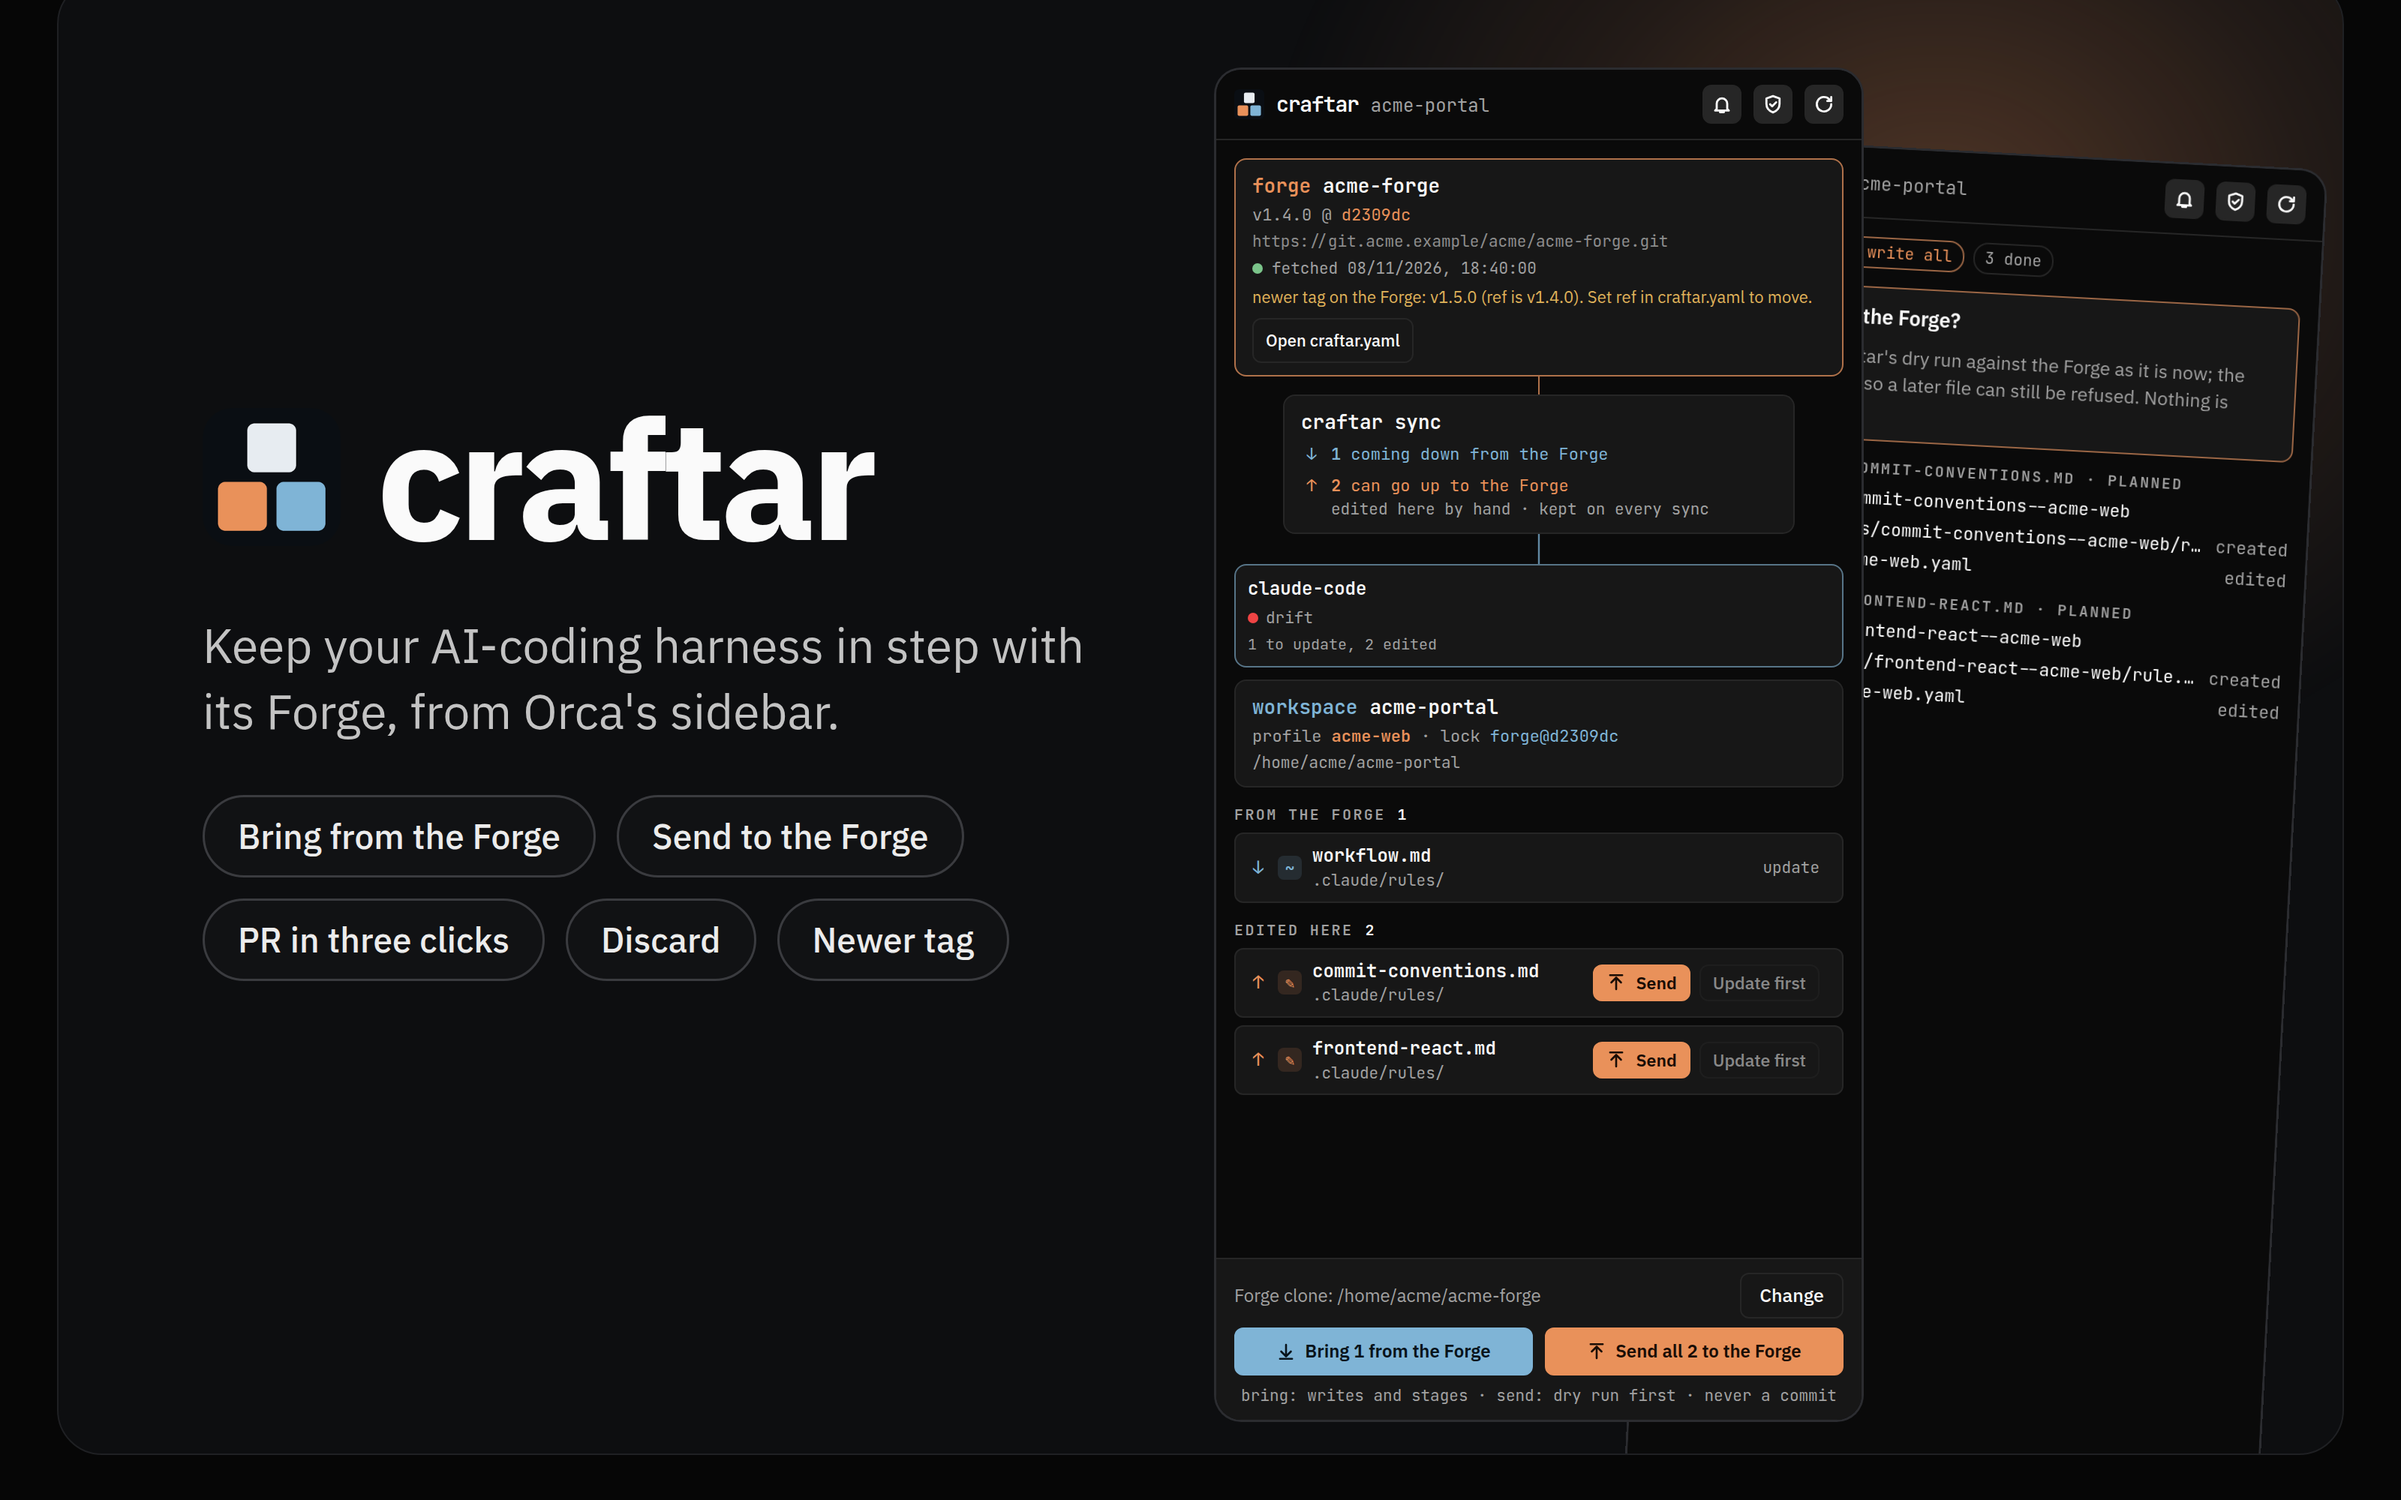
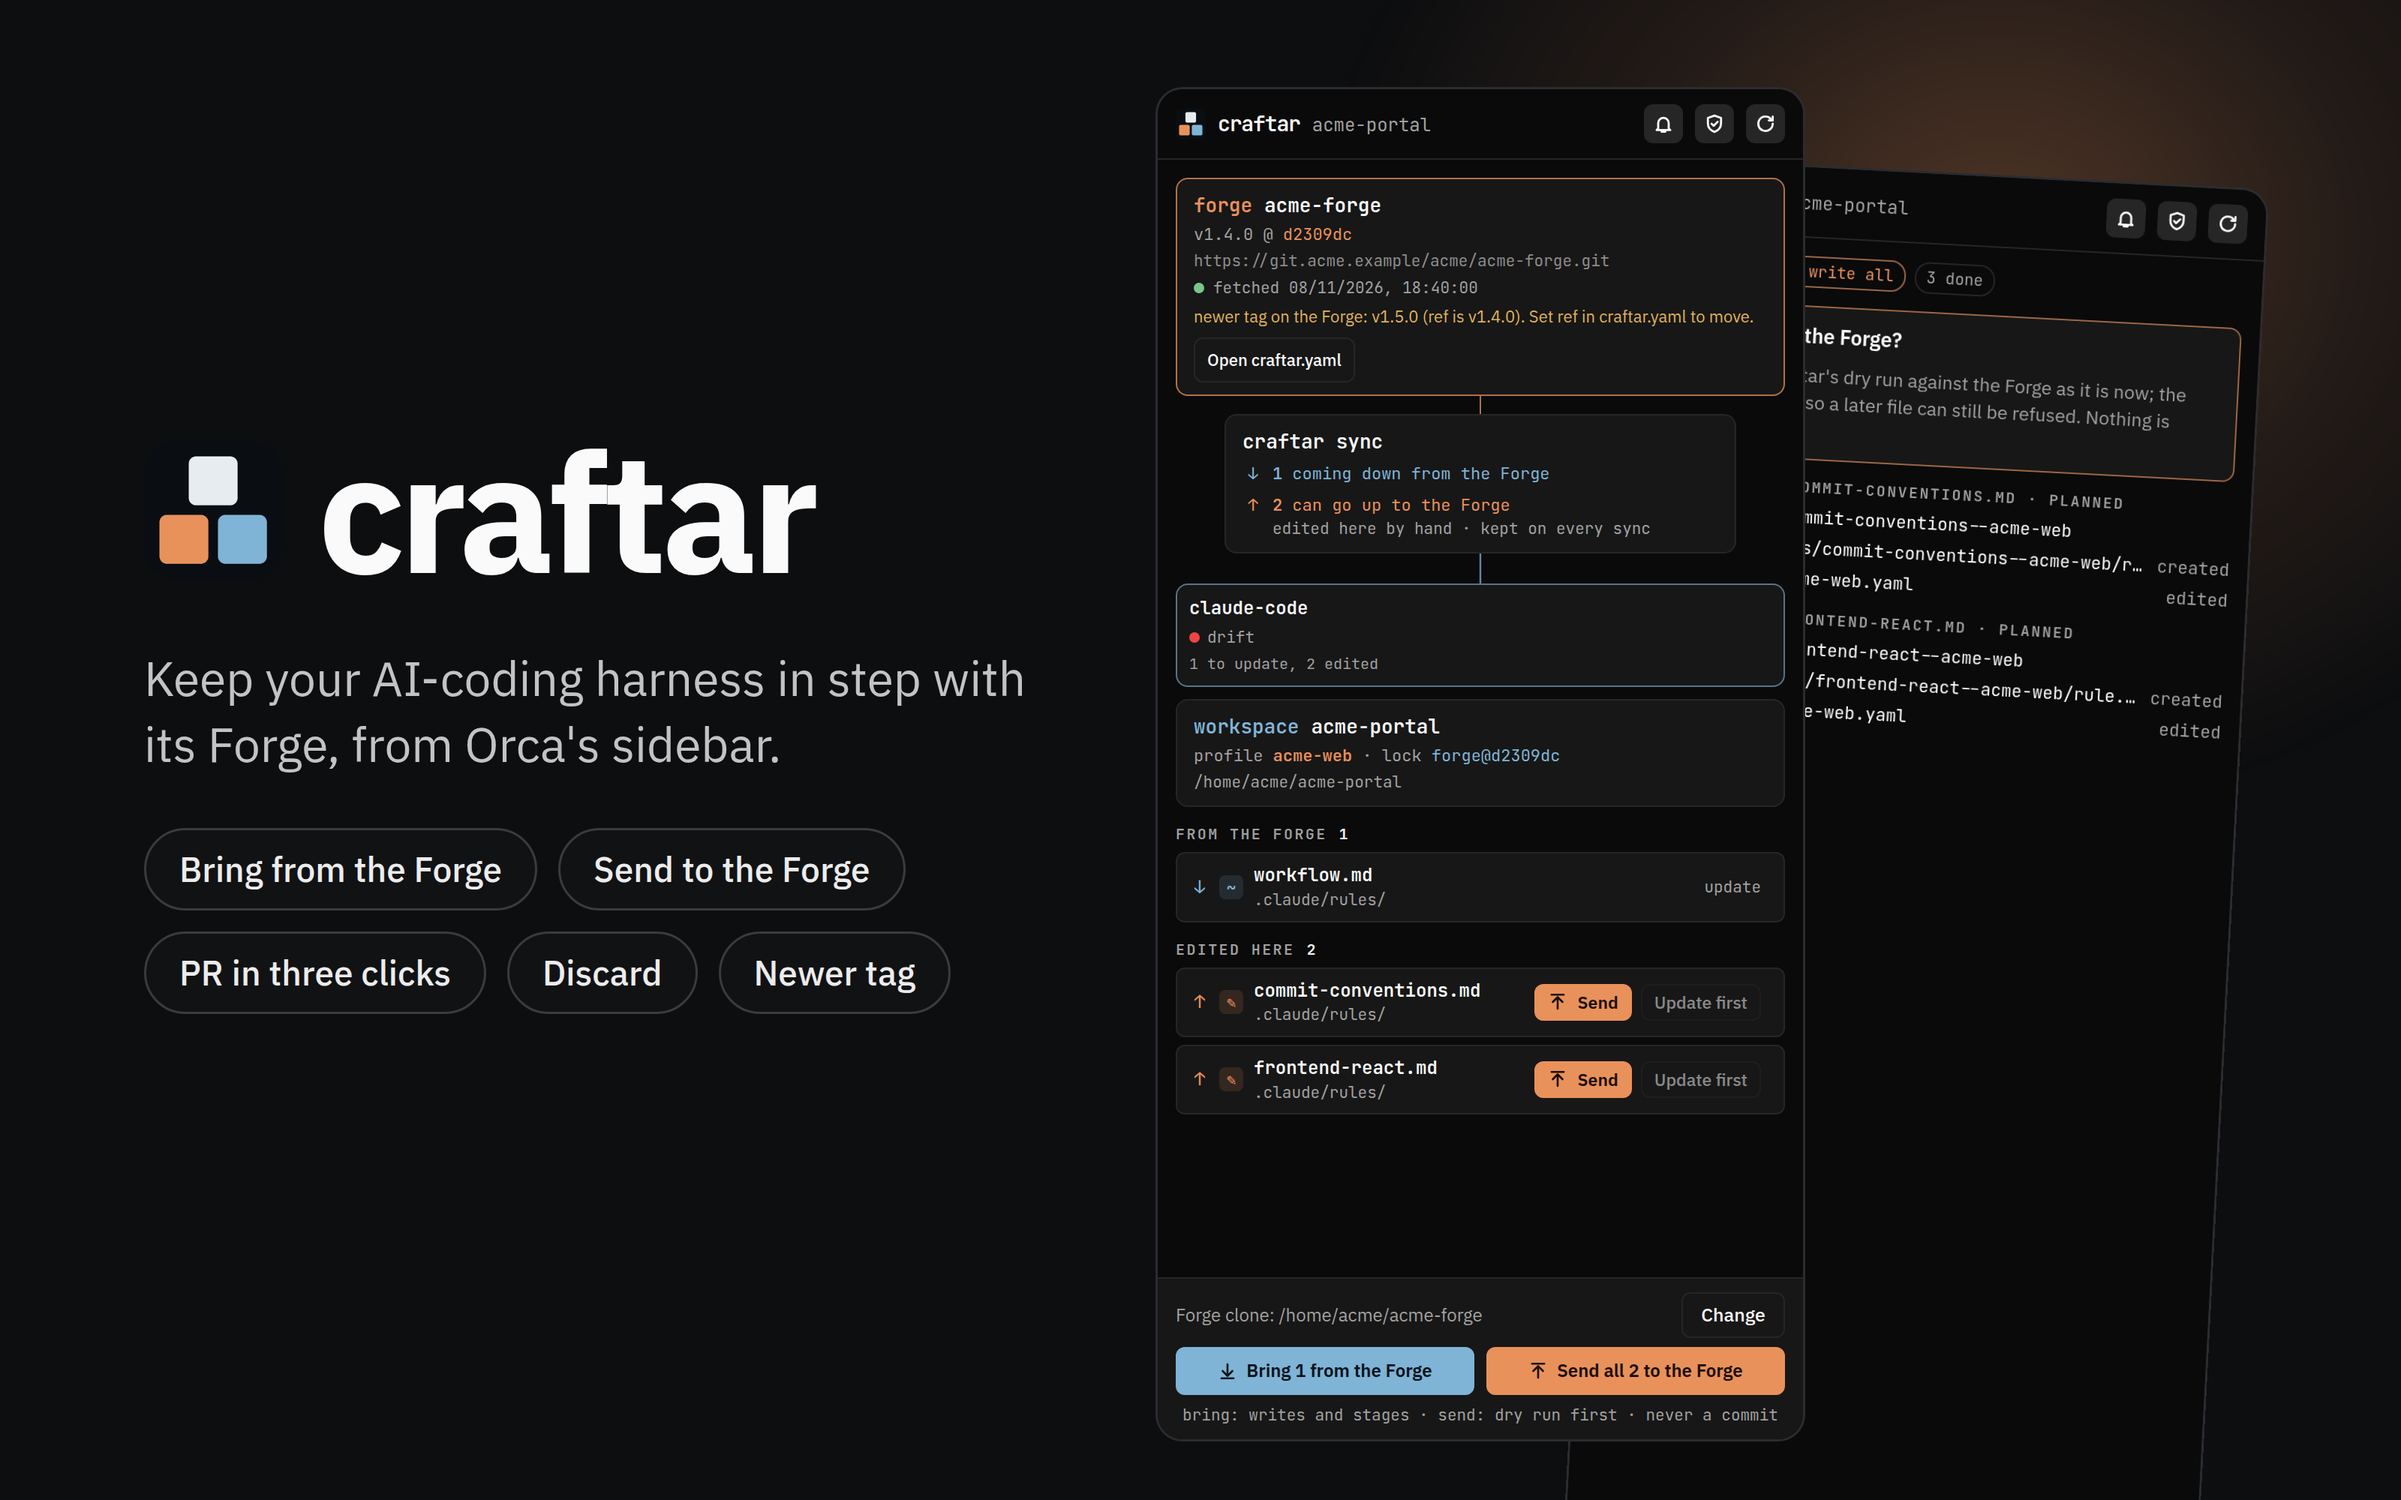
chore(catalog): a full-bleed cover with no frame of its own; 0.2.2
Orca draws its own rounded frame around the cover, so the cover's card showed
as a second frame (the user's print of v0.2.1). The background now runs edge to
edge; the layout, panels, glow and scale 2 stay. The manifest moves to 0.2.2.

diff --git a/README.md b/README.md
@@ -255,11 +255,12 @@ The catalog images (`assets/cover.png`, `assets/screenshots/`) show the plugin's
 and stylesheet (`src/panel.ts`) on synthetic `acme` data, with Orca's dark theme values, in a browser outside Orca (the Orca this is
 built in lists client workspaces, so no `plugin shot` is taken): a throwaway test calls `render` with `buildModel` over the fixtures in
 `test-support/fixtures/` (an `acme-portal` workspace on `git.acme.example`) and writes each panel state's HTML with the panel's `STYLE`.
-Around those panels, a hand-written card adds the rest, in the same headless pass (`google-chrome --headless --screenshot`): on the
+Around those panels, a hand-written page adds the rest, in the same headless pass (`google-chrome --headless --screenshot`): on the
 cover, the icon, "craftar", one sentence, five pills, the two panels (the front one straight, the back one tilted 3 degrees, partly
-behind it and cut by the card's bottom edge, no shadow) and a warm glow, taken at device scale 2 (`--force-device-scale-factor=2`, so
+behind it and cut by the image's bottom edge, no shadow) and a warm glow, on a dark background that runs edge to edge with no frame
+of its own (Orca draws its own rounded frame around the cover), taken at device scale 2 (`--force-device-scale-factor=2`, so
 3200x2000) so the tilted edges and the text stay sharp; on each screenshot (1280x800), a title and a sentence beside one panel. That
-card's HTML is not kept in the repository. Redraw them when the panel changes.
+page's HTML is not kept in the repository. Redraw them when the panel changes.
 
 ## License
 
